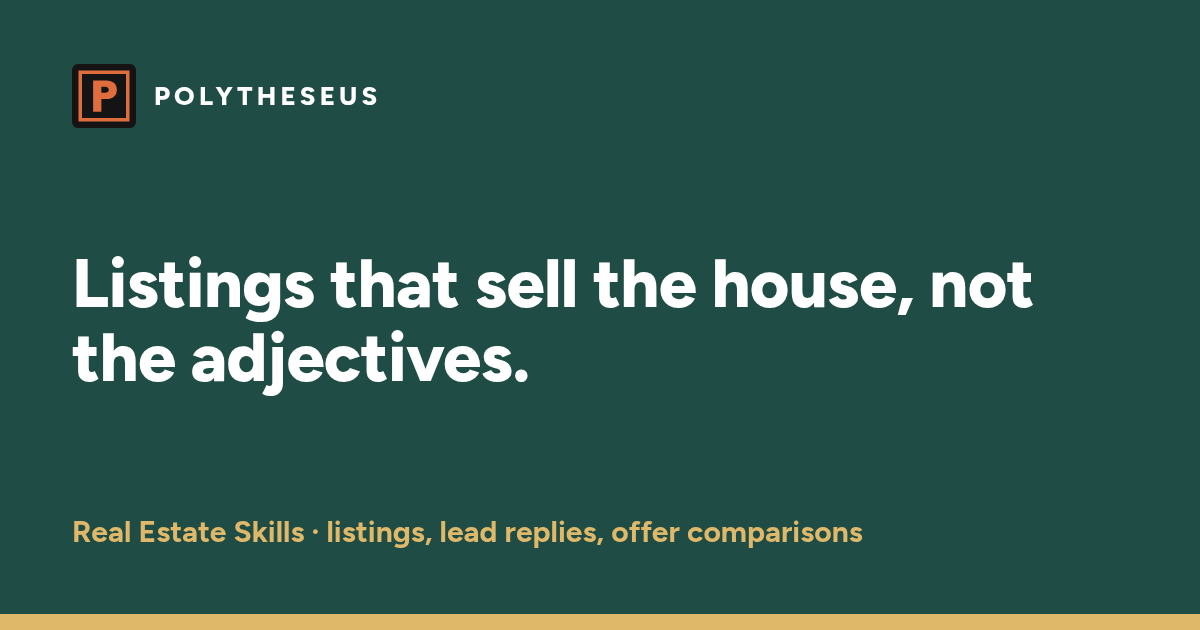
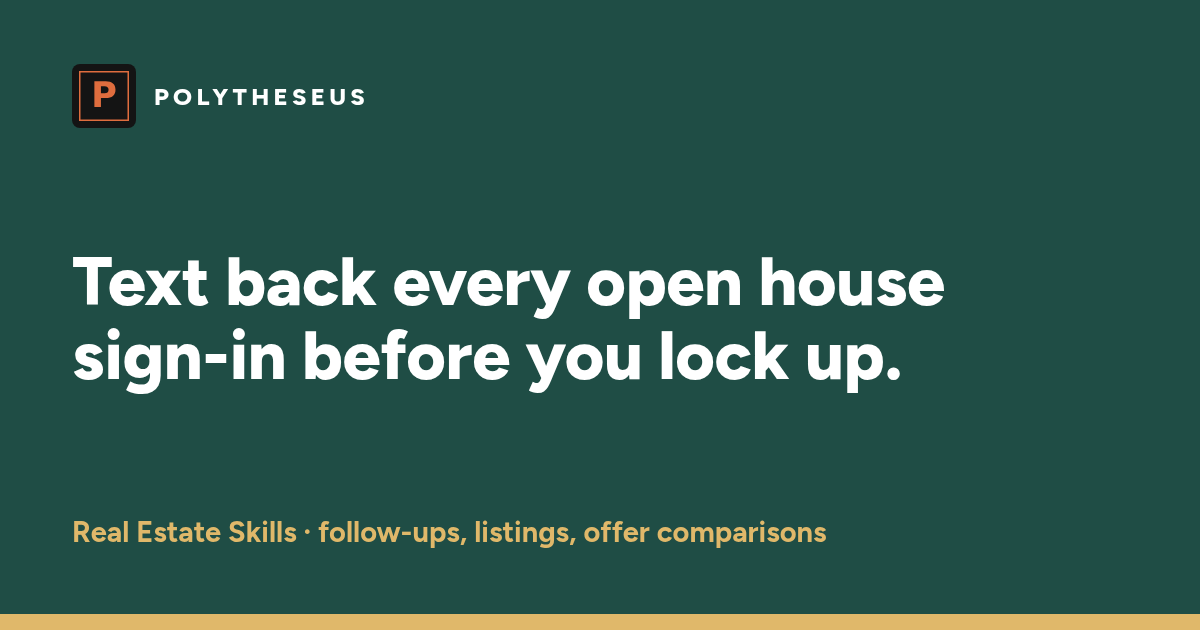
Real estate card and share image: new headline

Changed region(s): [[0.0617, 0.3921, 0.8633, 0.6333], [0.0617, 0.8143, 0.74, 0.8746], [0.0617, 0.0905, 0.3083, 0.2111]]

diff --git a/index.html b/index.html
@@ -83,8 +83,8 @@
     </a>
     <a class="pack estate" href="/real-estate-skills/">
       <p class="who">🏡 For real estate agents</p>
-      <h3>Listings that sell the house, not the adjectives.</h3>
-      <ul><li>Listing copy with a fair-housing check</li><li>Lead replies and follow-up sequences</li><li>Offer comparisons with the net worked out</li></ul>
+      <h3>Text back every open house sign-in before you lock up.</h3>
+      <ul><li>Open house and lead follow-ups</li><li>Listing copy with a fair-housing check</li><li>Offer comparisons with the net worked out</li></ul>
       <p class="price"><b>Free</b> · Pro £29 · US and UK</p>
     </a>
     <a class="pack sre" href="/sre-skills/">
